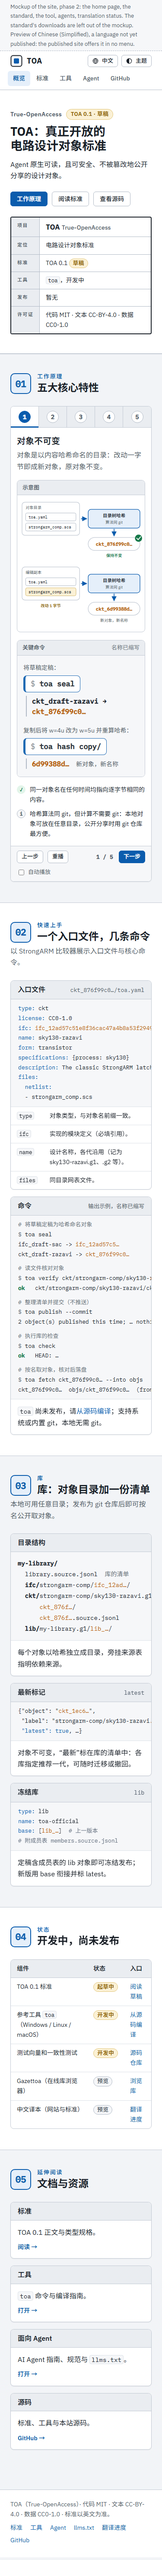
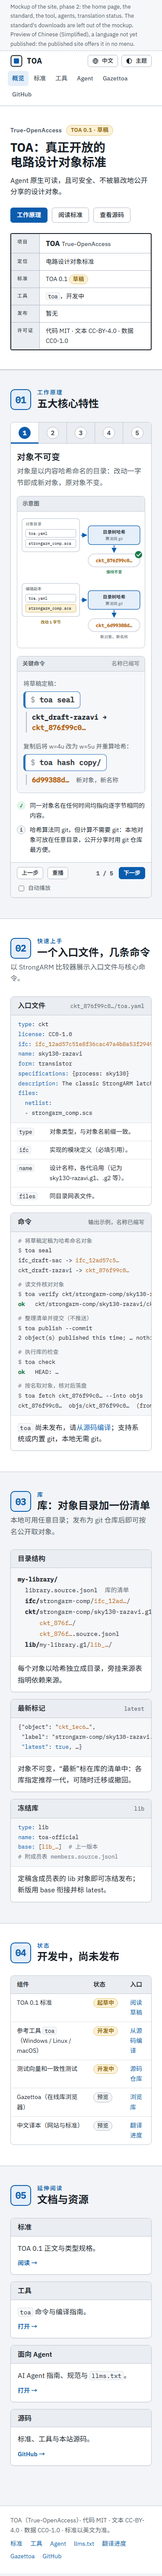
Link Gazettoa from the navigation
From 4eab7fb of toa-dev.

diff --git a/site/src/translation.html b/site/src/translation.html
@@ -28,6 +28,7 @@
       <a href="{{href_spec}}">{{spec}}</a>
       <a href="tools.html">{{tools}}</a>
       <a href="agents.html">{{agents}}</a>
+      <a href="https://true-openaccess.github.io/gazettoa/">{{gazettoa}}</a>
       <a href="https://github.com/true-openaccess/toa">{{github}}</a>
     </nav>
     <div class="top-tools">
@@ -136,6 +137,7 @@ python scripts/i18n/status.py check      <en># validate formats</en></code></pre
       <a href="agents.html">{{agents}}</a>
       <a href="../llms.txt">llms.txt</a>
       <a class="on" href="translation.html" aria-current="page">{{translation}}</a>
+      <a href="https://true-openaccess.github.io/gazettoa/">{{gazettoa}}</a>
       <a href="https://github.com/true-openaccess/toa">{{github}}</a>
     </nav>
   </div>

diff --git a/site/src/tools.html b/site/src/tools.html
@@ -25,6 +25,7 @@
       <a href="{{href_spec}}">{{spec}}</a>
       <a class="on" href="tools.html" aria-current="page">{{tools}}</a>
       <a href="agents.html">{{agents}}</a>
+      <a href="https://true-openaccess.github.io/gazettoa/">{{gazettoa}}</a>
       <a href="https://github.com/true-openaccess/toa">{{github}}</a>
     </nav>
     <div class="top-tools">
@@ -183,6 +184,7 @@ git push              <en># push manually (toa never pushes)</en></code></pre>
       <a href="agents.html">{{agents}}</a>
       <a href="../llms.txt">llms.txt</a>
       <a href="translation.html">{{translation}}</a>
+      <a href="https://true-openaccess.github.io/gazettoa/">{{gazettoa}}</a>
       <a href="https://github.com/true-openaccess/toa">{{github}}</a>
     </nav>
   </div>

diff --git a/site/src/agents.html b/site/src/agents.html
@@ -26,6 +26,7 @@
       <a href="{{href_spec}}">{{spec}}</a>
       <a href="tools.html">{{tools}}</a>
       <a class="on" href="agents.html" aria-current="page">{{agents}}</a>
+      <a href="https://true-openaccess.github.io/gazettoa/">{{gazettoa}}</a>
       <a href="https://github.com/true-openaccess/toa">{{github}}</a>
     </nav>
     <div class="top-tools">
@@ -114,6 +115,7 @@ $ toa --json fetch ckt_0000000000000000000000000000000000000000 --offline
       <a href="agents.html">{{agents}}</a>
       <a href="../llms.txt">llms.txt</a>
       <a href="translation.html">{{translation}}</a>
+      <a href="https://true-openaccess.github.io/gazettoa/">{{gazettoa}}</a>
       <a href="https://github.com/true-openaccess/toa">{{github}}</a>
     </nav>
   </div>

diff --git a/site/mockup/en/agents.html b/site/mockup/en/agents.html
@@ -29,6 +29,7 @@
       <a href="spec/0.1/">Standard</a>
       <a href="tools.html">Tools</a>
       <a class="on" href="agents.html" aria-current="page">Agents</a>
+      <a href="https://true-openaccess.github.io/gazettoa/">Gazettoa</a>
       <a href="https://github.com/true-openaccess/toa">GitHub</a>
     </nav>
     <div class="top-tools">
@@ -126,6 +127,7 @@ $ toa --json fetch ckt_0000000000000000000000000000000000000000 --offline
       <a href="agents.html">Agents</a>
       <a href="../llms.txt">llms.txt</a>
       <a href="translation.html">Translation status</a>
+      <a href="https://true-openaccess.github.io/gazettoa/">Gazettoa</a>
       <a href="https://github.com/true-openaccess/toa">GitHub</a>
     </nav>
   </div>

diff --git a/site/mockup/en/translation.html b/site/mockup/en/translation.html
@@ -31,6 +31,7 @@
       <a href="spec/0.1/">Standard</a>
       <a href="tools.html">Tools</a>
       <a href="agents.html">Agents</a>
+      <a href="https://true-openaccess.github.io/gazettoa/">Gazettoa</a>
       <a href="https://github.com/true-openaccess/toa">GitHub</a>
     </nav>
     <div class="top-tools">
@@ -233,6 +234,7 @@ python scripts/i18n/status.py check      # validate formats</code></pre>
       <a href="agents.html">Agents</a>
       <a href="../llms.txt">llms.txt</a>
       <a class="on" href="translation.html" aria-current="page">Translation status</a>
+      <a href="https://true-openaccess.github.io/gazettoa/">Gazettoa</a>
       <a href="https://github.com/true-openaccess/toa">GitHub</a>
     </nav>
   </div>

diff --git a/site/src/spec-page.html b/site/src/spec-page.html
@@ -31,6 +31,7 @@
       <a class="on" href="{{home}}{{href_spec}}" aria-current="page">{{spec}}</a>
       <a href="{{home}}tools.html">{{tools}}</a>
       <a href="{{home}}agents.html">{{agents}}</a>
+      <a href="https://true-openaccess.github.io/gazettoa/">{{gazettoa}}</a>
       <a href="https://github.com/true-openaccess/toa">{{github}}</a>
     </nav>
     <div class="top-tools">
@@ -96,6 +97,7 @@
       <a href="{{home}}agents.html">{{agents}}</a>
       <a href="../../../llms.txt">llms.txt</a>
       <a href="{{home}}translation.html">{{translation}}</a>
+      <a href="https://true-openaccess.github.io/gazettoa/">{{gazettoa}}</a>
       <a href="https://github.com/true-openaccess/toa">{{github}}</a>
     </nav>
   </div>

diff --git a/site/mockup/en/spec/0.1/index.html b/site/mockup/en/spec/0.1/index.html
@@ -33,6 +33,7 @@
       <a class="on" href="../../spec/0.1/" aria-current="page">Standard</a>
       <a href="../../tools.html">Tools</a>
       <a href="../../agents.html">Agents</a>
+      <a href="https://true-openaccess.github.io/gazettoa/">Gazettoa</a>
       <a href="https://github.com/true-openaccess/toa">GitHub</a>
     </nav>
     <div class="top-tools">
@@ -3121,6 +3122,7 @@ library.source.jsonl</code></pre>
       <a href="../../agents.html">Agents</a>
       <a href="../../../llms.txt">llms.txt</a>
       <a href="../../translation.html">Translation status</a>
+      <a href="https://true-openaccess.github.io/gazettoa/">Gazettoa</a>
       <a href="https://github.com/true-openaccess/toa">GitHub</a>
     </nav>
   </div>

diff --git a/site/mockup/en/tools.html b/site/mockup/en/tools.html
@@ -28,6 +28,7 @@
       <a href="spec/0.1/">Standard</a>
       <a class="on" href="tools.html" aria-current="page">Tools</a>
       <a href="agents.html">Agents</a>
+      <a href="https://true-openaccess.github.io/gazettoa/">Gazettoa</a>
       <a href="https://github.com/true-openaccess/toa">GitHub</a>
     </nav>
     <div class="top-tools">
@@ -195,6 +196,7 @@ git push              # push manually (toa never pushes)</code></pre>
       <a href="agents.html">Agents</a>
       <a href="../llms.txt">llms.txt</a>
       <a href="translation.html">Translation status</a>
+      <a href="https://true-openaccess.github.io/gazettoa/">Gazettoa</a>
       <a href="https://github.com/true-openaccess/toa">GitHub</a>
     </nav>
   </div>

diff --git a/site/mockup/zh/agents.html b/site/mockup/zh/agents.html
@@ -29,6 +29,7 @@
       <a href="spec/0.1/">标准</a>
       <a href="tools.html">工具</a>
       <a class="on" href="agents.html" aria-current="page">Agent</a>
+      <a href="https://true-openaccess.github.io/gazettoa/">Gazettoa</a>
       <a href="https://github.com/true-openaccess/toa">GitHub</a>
     </nav>
     <div class="top-tools">
@@ -126,6 +127,7 @@ $ toa --json fetch ckt_0000000000000000000000000000000000000000 --offline
       <a href="agents.html">Agent</a>
       <a href="../llms.txt">llms.txt</a>
       <a href="translation.html">翻译进度</a>
+      <a href="https://true-openaccess.github.io/gazettoa/">Gazettoa</a>
       <a href="https://github.com/true-openaccess/toa">GitHub</a>
     </nav>
   </div>

diff --git a/site/mockup/zh/spec/0.1/index.html b/site/mockup/zh/spec/0.1/index.html
@@ -33,6 +33,7 @@
       <a class="on" href="../../spec/0.1/" aria-current="page">标准</a>
       <a href="../../tools.html">工具</a>
       <a href="../../agents.html">Agent</a>
+      <a href="https://true-openaccess.github.io/gazettoa/">Gazettoa</a>
       <a href="https://github.com/true-openaccess/toa">GitHub</a>
     </nav>
     <div class="top-tools">
@@ -3081,6 +3082,7 @@ library.source.jsonl</code></pre>
       <a href="../../agents.html">Agent</a>
       <a href="../../../llms.txt">llms.txt</a>
       <a href="../../translation.html">翻译进度</a>
+      <a href="https://true-openaccess.github.io/gazettoa/">Gazettoa</a>
       <a href="https://github.com/true-openaccess/toa">GitHub</a>
     </nav>
   </div>

diff --git a/site/mockup/zh/tools.html b/site/mockup/zh/tools.html
@@ -28,6 +28,7 @@
       <a href="spec/0.1/">标准</a>
       <a class="on" href="tools.html" aria-current="page">工具</a>
       <a href="agents.html">Agent</a>
+      <a href="https://true-openaccess.github.io/gazettoa/">Gazettoa</a>
       <a href="https://github.com/true-openaccess/toa">GitHub</a>
     </nav>
     <div class="top-tools">
@@ -195,6 +196,7 @@ git push              # 手动推送（toa 不推送）</code></pre>
       <a href="agents.html">Agent</a>
       <a href="../llms.txt">llms.txt</a>
       <a href="translation.html">翻译进度</a>
+      <a href="https://true-openaccess.github.io/gazettoa/">Gazettoa</a>
       <a href="https://github.com/true-openaccess/toa">GitHub</a>
     </nav>
   </div>

diff --git a/site/mockup/zh/translation.html b/site/mockup/zh/translation.html
@@ -31,6 +31,7 @@
       <a href="spec/0.1/">标准</a>
       <a href="tools.html">工具</a>
       <a href="agents.html">Agent</a>
+      <a href="https://true-openaccess.github.io/gazettoa/">Gazettoa</a>
       <a href="https://github.com/true-openaccess/toa">GitHub</a>
     </nav>
     <div class="top-tools">
@@ -233,6 +234,7 @@ python scripts/i18n/status.py check      # 检查格式</code></pre>
       <a href="agents.html">Agent</a>
       <a href="../llms.txt">llms.txt</a>
       <a class="on" href="translation.html" aria-current="page">翻译进度</a>
+      <a href="https://true-openaccess.github.io/gazettoa/">Gazettoa</a>
       <a href="https://github.com/true-openaccess/toa">GitHub</a>
     </nav>
   </div>
